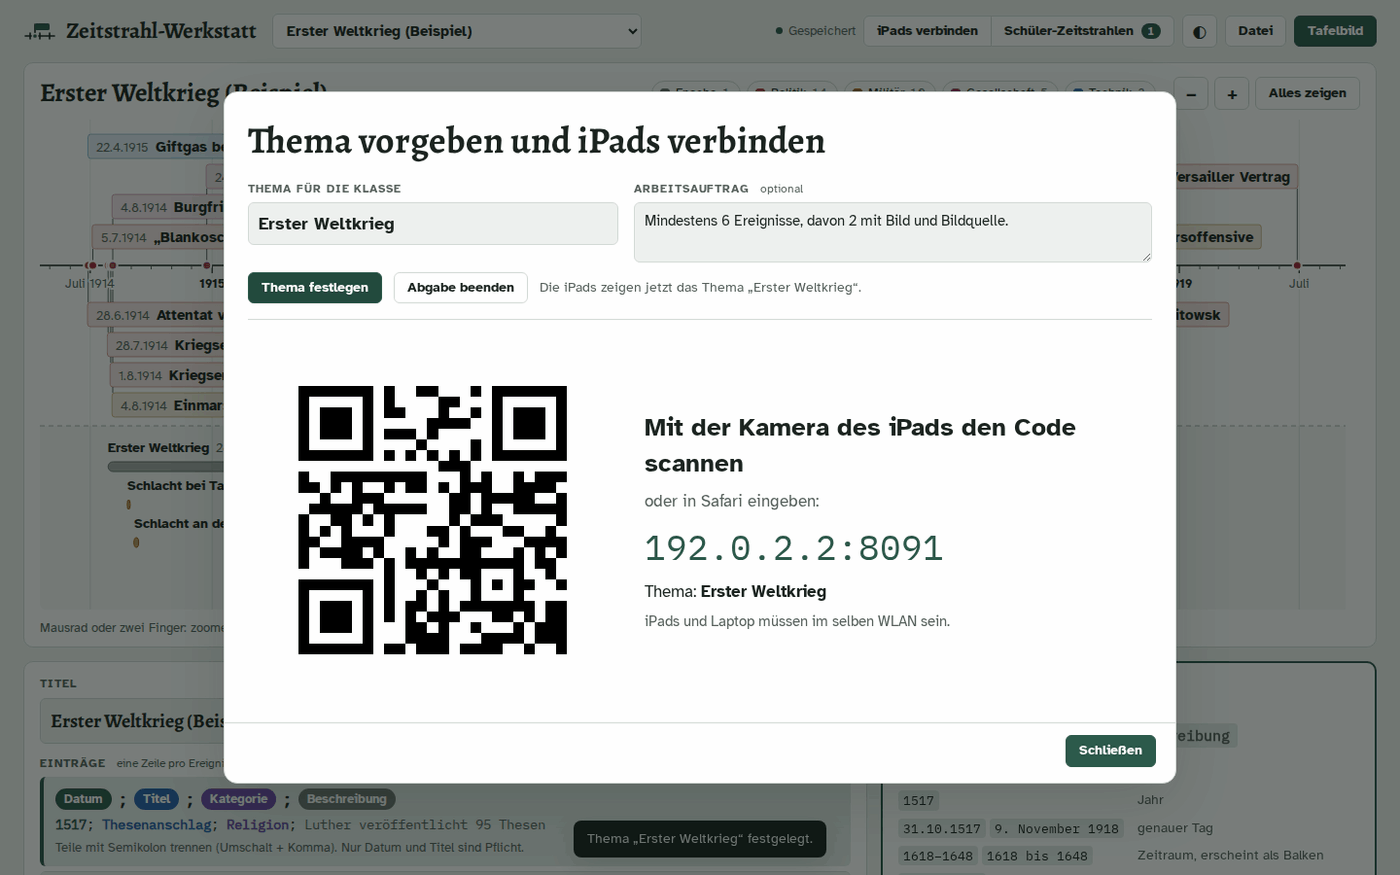
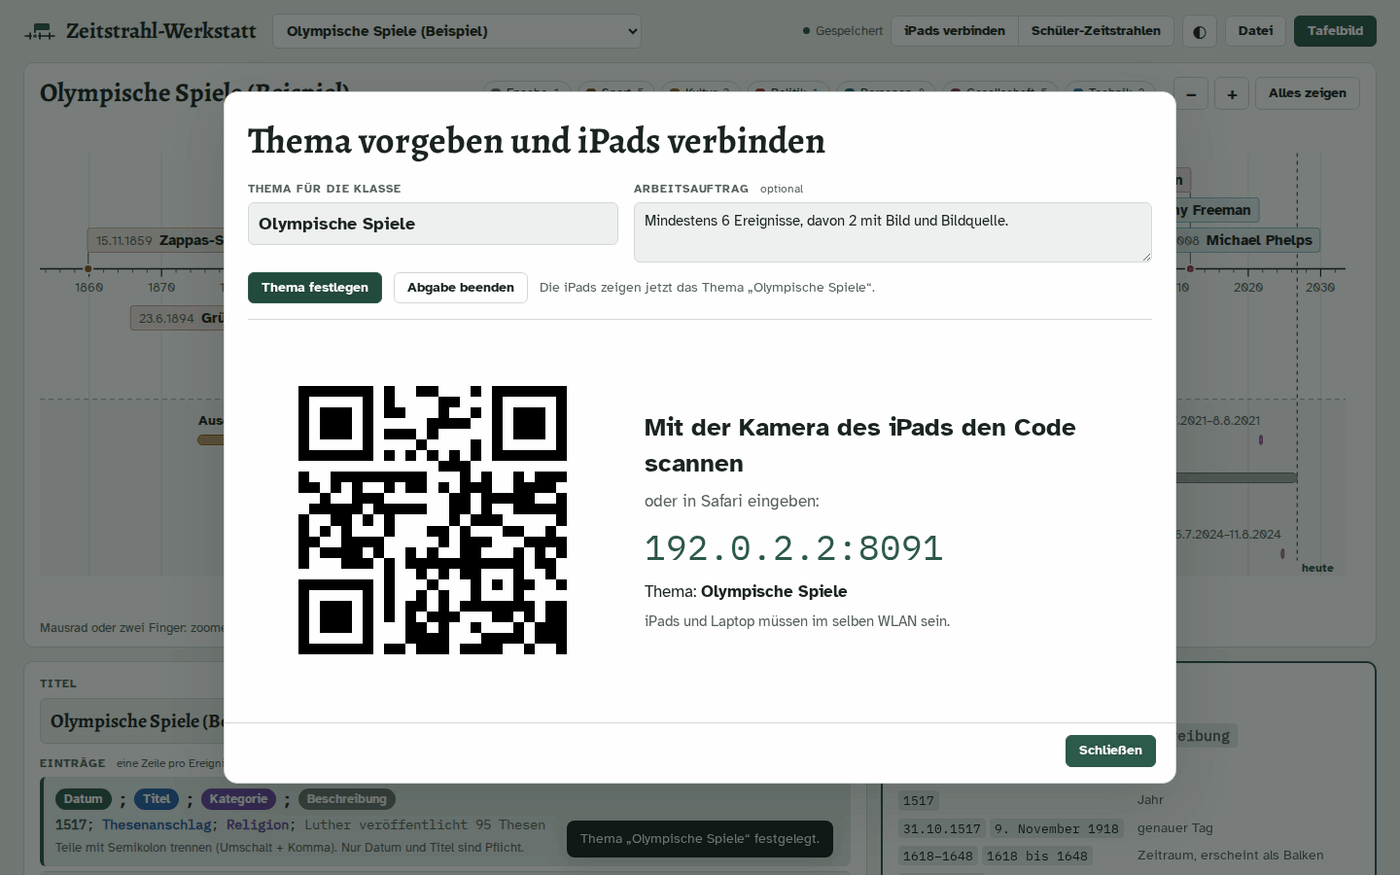
Beispiel „Olympische Spiele“, README-Bilder damit neu
Neues fünftes Beispiel mit 25 Einträgen von den Zappas-Spielen 1859
bis Paris 2024. Schülerinnen und Schüler öffnen es mit dem Code OLYMP
als Vorlage. Die sechs Bilder im README zeigen jetzt dieses Beispiel
statt des Ersten Weltkriegs.

Claude-Session: https://claude.ai/code/session_01HDsg7VMRdxuSBuCStmp5Ba

diff --git a/js/beispiele.js b/js/beispiele.js
@@ -129,4 +129,37 @@ März 1917; Februarrevolution in Russland; Politik; Zar Nikolaus II. dankt ab. N
 28.06.1919; Versailler Vertrag; Politik; Genau fünf Jahre nach dem Attentat von Sarajevo unterzeichnet Deutschland den Friedensvertrag. Er gibt Deutschland und seinen Verbündeten die Schuld am Krieg.
 `,
   },
+  {
+    id: 'beispiel-olympia',
+    name: 'Olympische Spiele (Beispiel)',
+    thema: 'Olympische Spiele',
+    code: 'OLYMP',
+    source: `# Datum; Titel; Kategorie; Beschreibung
+1896–heute; Olympische Spiele der Neuzeit; Epoche; Sommerspiele alle vier Jahre, seit 1924 auch Winterspiele.
+15.11.1859; Zappas-Spiele in Athen; Sport; Der griechische Kaufmann Evangelos Zappas bezahlt Wettkämpfe nach antikem Vorbild. Sie gelten als Vorläufer der modernen Spiele.
+1875–1881; Ausgrabungen in Olympia; Kultur; Deutsche Archäologen unter Ernst Curtius legen das antike Heiligtum mit Zeustempel und Stadion frei. Dort fanden von 776 v. Chr. bis um 393 n. Chr. die antiken Spiele statt.
+23.06.1894; Gründung des IOC; Politik; Auf Anregung von Pierre de Coubertin gründet sich in Paris das Internationale Olympische Komitee.
+06.04.1896–15.04.1896; Erste Spiele der Neuzeit in Athen; Sport; Rund 240 Sportler aus 14 Ländern treten an, Frauen sind noch nicht zugelassen.
+10.04.1896; Spyridon Louis gewinnt den Marathon; Personen; Der griechische Wasserträger gewinnt den ersten olympischen Marathonlauf und wird zum Nationalhelden.
+1900; Erste Olympiasiegerin; Gesellschaft; In Paris dürfen erstmals Frauen starten. Die Tennisspielerin Charlotte Cooper gewinnt als erste Frau einen olympischen Wettbewerb.
+1912; Zeitmessung mit Strom; Technik; In Stockholm werden die Zeiten erstmals elektrisch gestoppt, ein Zielfoto hilft bei knappen Einläufen.
+1920; Die Olympischen Ringe; Kultur; In Antwerpen weht zum ersten Mal die Flagge mit den fünf Ringen. Sie stehen für die fünf Erdteile.
+25.01.1924–05.02.1924; Erste Winterspiele in Chamonix; Sport; Wettkämpfe in Eiskunstlauf, Eishockey, Skilanglauf, Skispringen und Bob.
+1928; Das olympische Feuer; Kultur; In Amsterdam brennt zum ersten Mal während der Spiele ein Feuer im Stadion.
+1936; Jesse Owens; Personen; Der US-Amerikaner gewinnt in Berlin vier Goldmedaillen im Sprint und im Weitsprung.
+1948; Fanny Blankers-Koen; Personen; Die Niederländerin gewinnt in London viermal Gold. Sie ist Mutter von zwei Kindern, was damals viele für unvereinbar mit Spitzensport halten.
+10.09.1960; Barfuß zum Sieg; Personen; Abebe Bikila aus Äthiopien läuft den Marathon in Rom ohne Schuhe und gewinnt als erster Sportler aus Afrika südlich der Sahara olympisches Gold.
+18.09.1960–25.09.1960; Erste Paralympics in Rom; Gesellschaft; Rund 400 Sportlerinnen und Sportler im Rollstuhl treten an, kurz nach den Sommerspielen in derselben Stadt.
+1964; Spiele in Tokio; Technik; Zum ersten Mal finden Olympische Spiele in Asien statt. Satelliten übertragen sie live ins Fernsehen nach Amerika.
+20.10.1968; Fosbury-Flop; Sport; Dick Fosbury springt in Mexiko-Stadt rücklings über die Latte und gewinnt Gold. Heute springen fast alle so.
+18.07.1976; Die erste Zehn; Personen; Die 14-jährige Turnerin Nadia Comăneci erhält in Montreal als Erste die Höchstnote 10,0. Die Anzeigetafel kann nur 1.00 anzeigen.
+1988; Golden Slam; Personen; Steffi Graf gewinnt in Seoul Gold im Tennis und im selben Jahr alle vier großen Turniere.
+1994; Winterspiele im eigenen Rhythmus; Sport; Nach Lillehammer finden Winter- und Sommerspiele nicht mehr im selben Jahr statt, sondern abwechselnd alle zwei Jahre.
+2000; Cathy Freeman; Personen; Die Läuferin aus einer Familie der australischen Ureinwohner entzündet in Sydney das olympische Feuer und gewinnt später Gold über 400 Meter.
+2008; Michael Phelps; Personen; Der Schwimmer gewinnt in Peking acht Goldmedaillen bei einer einzigen Austragung, so viele wie niemand zuvor.
+2012; Frauen aus allen Ländern; Gesellschaft; In London schickt erstmals jedes teilnehmende Land auch Sportlerinnen.
+23.07.2021–08.08.2021; Spiele ohne Zuschauer; Gesellschaft; Wegen der Corona-Pandemie finden die Spiele von Tokio ein Jahr später statt, fast ohne Publikum.
+26.07.2024–11.08.2024; Spiele in Paris; Gesellschaft; Zum ersten Mal gibt es gleich viele Startplätze für Frauen und Männer. Die Eröffnungsfeier findet auf der Seine statt.
+`,
+  },
 ];

diff --git a/README.md b/README.md
@@ -4,7 +4,7 @@ Interaktive Zeitstrahlen für Geschichte und Religion. Die Lehrkraft pflegt eige
 
 Der Laptop der Lehrkraft ist dabei der Server. Es gibt keine Cloud und keine Konten, alle Daten bleiben auf dem Laptop.
 
-![Lehrkraft-Ansicht mit dem Beispiel „Erster Weltkrieg“: oben der Zeitstrahl mit Ereignissen und Zeiträumen, unten der Editor und die Hilfe zur Schreibweise](docs/bilder/lehrkraft.png)
+![Lehrkraft-Ansicht mit dem Beispiel „Olympische Spiele“: oben der Zeitstrahl mit Ereignissen und Zeiträumen, unten der Editor und die Hilfe zur Schreibweise](docs/bilder/lehrkraft.png)
 
 ## Einrichten (einmalig)
 
@@ -194,6 +194,6 @@ Mögliche Anknüpfungspunkte im Unterricht:
 
 ## Beispiele
 
-Beim ersten Start ist nur ein leerer Zeitstrahl da. Vier Beispiele lassen sich einzeln über **Datei → Beispiel öffnen …** oder den Link im leeren Zeitstrahl dazuholen: Reformation und Konfessionalisierung, Erster Weltkrieg, Weimarer Republik sowie Kirchengeschichte im Überblick (mit Daten vor Christus). Ein Beispiel, das schon da ist, wird nur aufgerufen und nicht doppelt angelegt.
+Beim ersten Start ist nur ein leerer Zeitstrahl da. Fünf Beispiele lassen sich einzeln über **Datei → Beispiel öffnen …** oder den Link im leeren Zeitstrahl dazuholen: Reformation und Konfessionalisierung, Erster Weltkrieg, Weimarer Republik, Kirchengeschichte im Überblick (mit Daten vor Christus) sowie Olympische Spiele der Neuzeit. Ein Beispiel, das schon da ist, wird nur aufgerufen und nicht doppelt angelegt.
 
-Das Beispiel zum Ersten Weltkrieg können auch die Schülerinnen und Schüler öffnen: Auf der Schülerseite unter „Mit eurem Code weiterarbeiten“ den Code **`KRIEG`** eingeben. Der Zeitstrahl erscheint dann als Vorlage. Die Gruppe kann ihn verändern, ergänzen und beim Speichern einen eigenen Code bekommen, das Beispiel selbst bleibt unverändert. Weitere Beispiele bekommen in `js/beispiele.js` einen eigenen `code`. Er hat fünf Zeichen und enthält I, O, 0 oder 1, damit er nie mit einem Code einer Gruppe zusammenfällt.
+Die Beispiele zum Ersten Weltkrieg und zu den Olympischen Spielen können auch die Schülerinnen und Schüler öffnen: Auf der Schülerseite unter „Mit eurem Code weiterarbeiten“ den Code **`KRIEG`** oder **`OLYMP`** eingeben. Der Zeitstrahl erscheint dann als Vorlage. Die Gruppe kann ihn verändern, ergänzen und beim Speichern einen eigenen Code bekommen, das Beispiel selbst bleibt unverändert. Weitere Beispiele bekommen in `js/beispiele.js` einen eigenen `code`. Er hat fünf Zeichen und enthält I, O, 0 oder 1, damit er nie mit einem Code einer Gruppe zusammenfällt.
